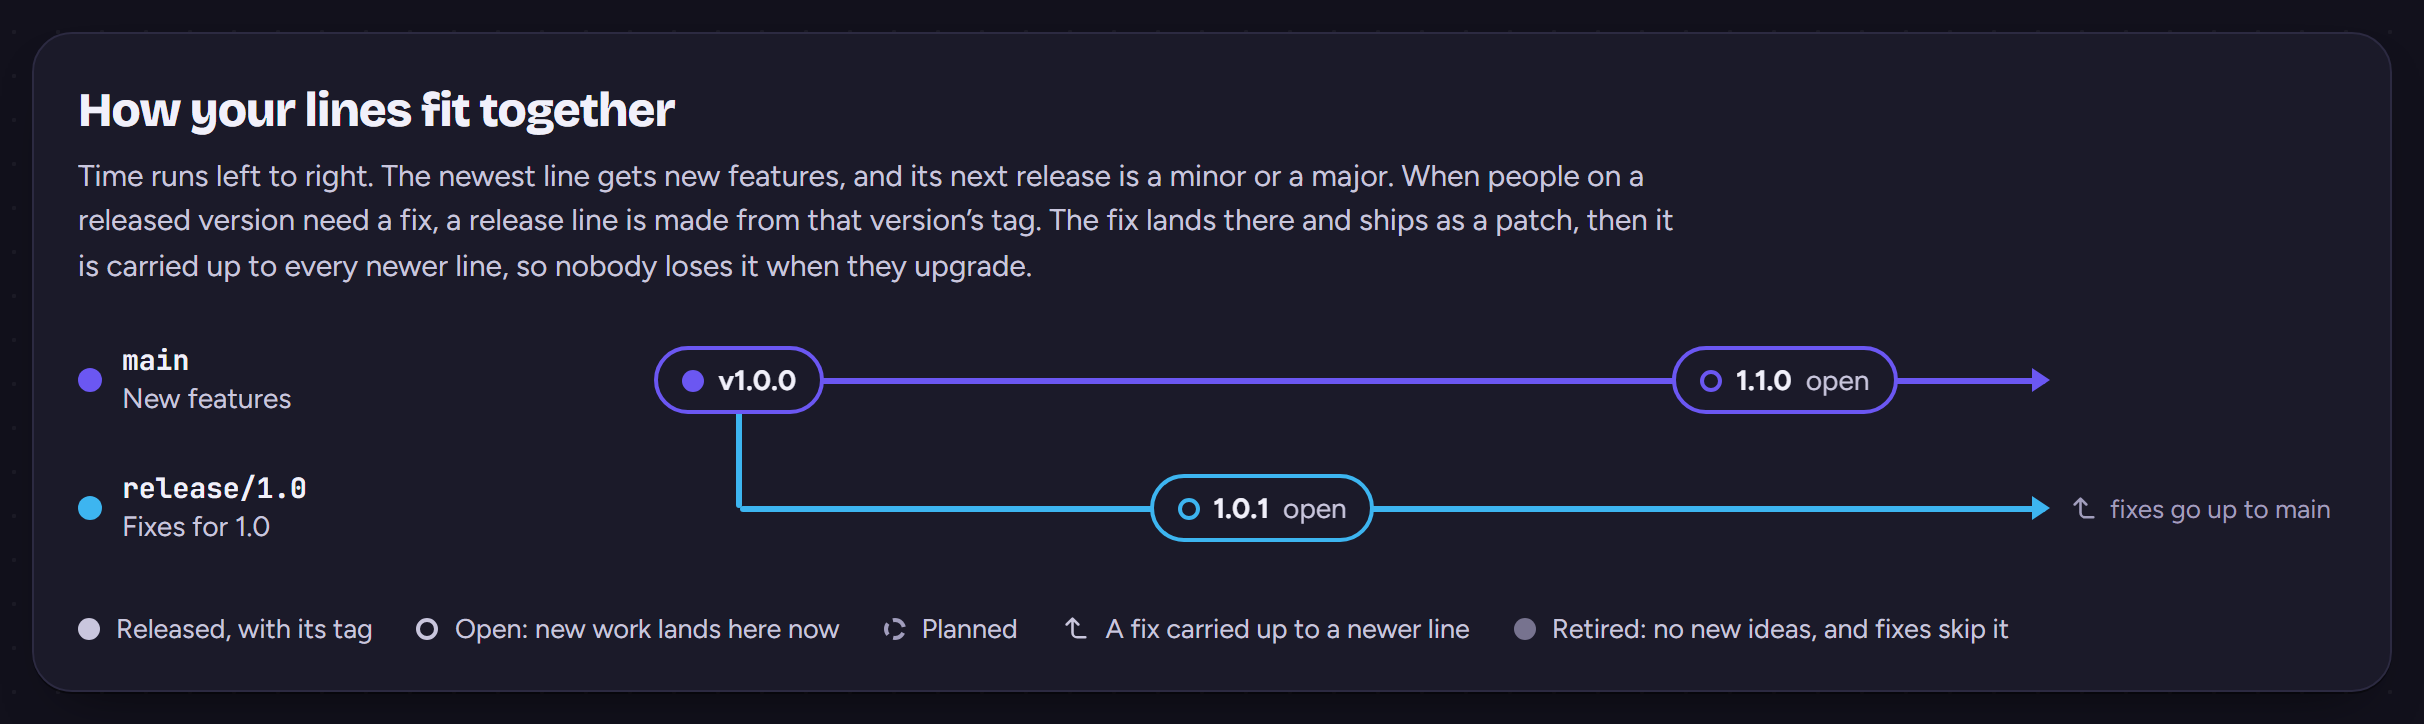
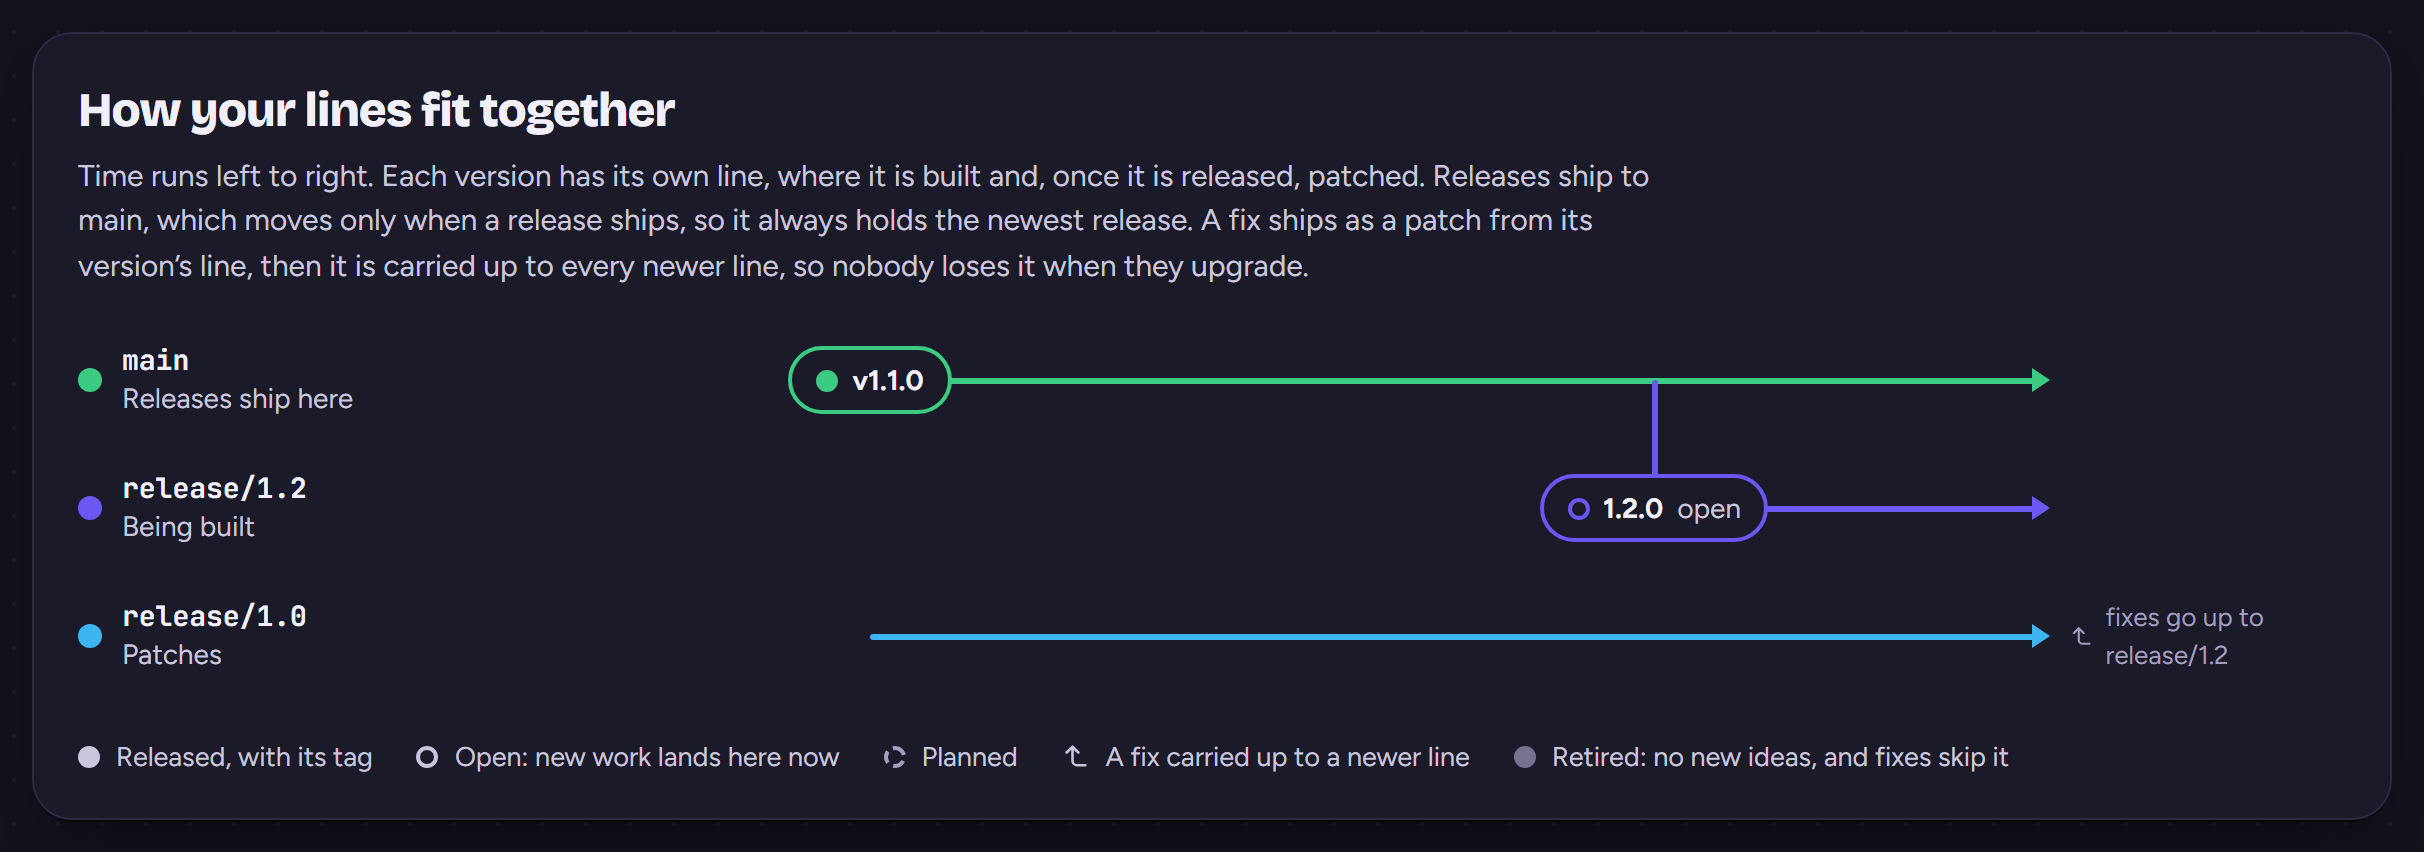
The README's release lines picture shows version lines: Studio desk's own lines while 1.2 was being built
The picture beside "Looking after several versions at once?" showed 1.1's model (new work on main, a patch line from
a tag). It is now a close-up of Studio desk development's own Releases map, taken read-only from the live studio on
November 10: v1.1.0 on main, release/1.2 being built with 1.2.0 open, and release/1.0 taking patches. The other eight
pictures were retaken from the 1.2 candidate and match it, apart from times that now read as dates, so they stay.

diff --git a/README.md b/README.md
@@ -100,7 +100,7 @@ Need to fix something people already run? Open a patch milestone like 1.1.1. Stu
 
 Looking after several versions at once? Give each version its own line: new work lands on the next version's line, and a release ships it to your main branch. A fix made on a newer line can be brought back to an older one, so people still on that version get it too.
 
-![A project's release lines: v1.0.0 released on main with 1.1.0 open, and a release/1.0 line made from its tag with 1.0.1 open, whose fixes go up to main](.github/images/release-lines.png)
+![Studio desk's own release lines while 1.2 was being built: v1.1.0 released on main, release/1.2 being built with 1.2.0 open, and release/1.0 taking patches, whose fixes go up to release/1.2](.github/images/release-lines.png)
 
 Push sends a released line and its tag to your remote, with your own git sign-in. It asks every time.
 
